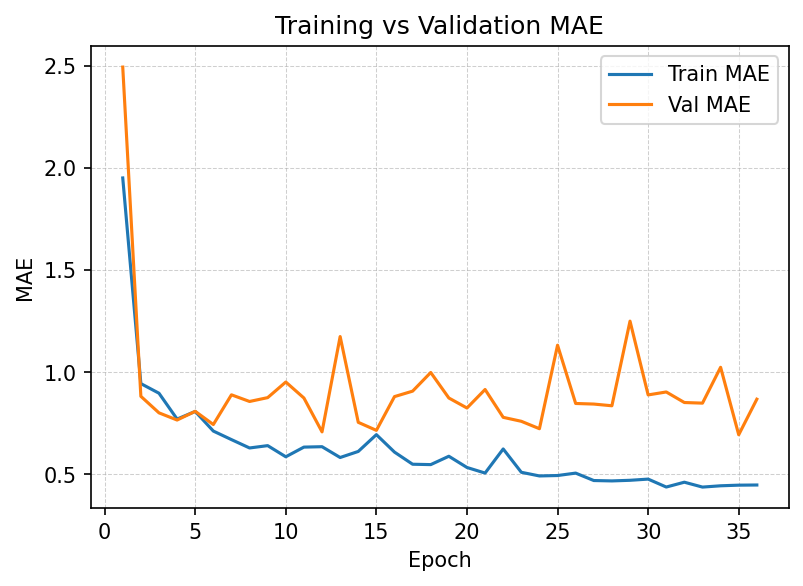
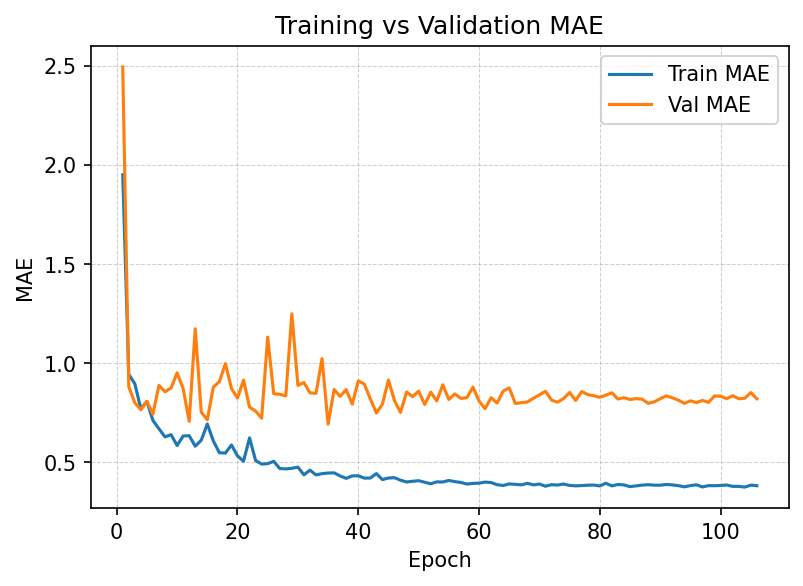
added EMA and keyboard intrupts

diff --git a/models/model_v8/train.py b/models/model_v8/train.py
@@ -1,3 +1,4 @@
+import copy
 import os
 import random
 import shutil
@@ -50,6 +51,7 @@ class TrainConfig:
     out_dir: str = '.'
     blacklist_ids: Tuple[int, ...] = (163,)
     best_mae_window: int = 5
+    ema_decay: float = 0.995
 
 
 def seed_everything(seed: int = 42, deterministic: bool = True):
@@ -68,6 +70,23 @@ def seed_worker(worker_id: int):
     worker_seed = torch.initial_seed() % 2**32
     np.random.seed(worker_seed)
     random.seed(worker_seed)
+
+
+def update_ema_model(ema_model: nn.Module, model: nn.Module, decay: float) -> None:
+    decay = float(decay)
+    if decay <= 0.0:
+        return
+    with torch.no_grad():
+        ema_params = dict(ema_model.named_parameters())
+        model_params = dict(model.named_parameters())
+        for name, param in model_params.items():
+            ema_param = ema_params.get(name)
+            if ema_param is None:
+                continue
+            ema_param.mul_(decay).add_(param, alpha=1.0 - decay)
+        # Keep buffers (e.g., BatchNorm stats) in sync
+        for ema_buf, buf in zip(ema_model.buffers(), model.buffers()):
+            ema_buf.copy_(buf)
 
 
 class TensorDictDataset(Dataset):
@@ -124,7 +143,7 @@ def _build_full_dataset(cfg: TrainConfig) -> PlantDatasetV8:
         cfg.rgb_dir,
         cfg.depth_dir,
         cfg.train_csv,
-        augment=True,
+        augment=False,
         seed=cfg.seed,
         enable_cache=True,
         num_views=1,
@@ -334,83 +353,104 @@ def train_fusion_regressor(
     train_history: List[float] = []
     val_history: List[float] = []
     mae_window = max(1, int(cfg.best_mae_window))
+    use_ema = cfg.ema_decay is not None and float(cfg.ema_decay) > 0.0
+    ema_model = None
+    if use_ema:
+        ema_model = copy.deepcopy(model).to(device)
+        for param in ema_model.parameters():
+            param.requires_grad_(False)
+    best_saved = False
+    interrupted = False
+    try:
+        for epoch in range(cfg.num_epochs):
+            model.train()
+            train_mae_sum, n_train = 0.0, 0
+            train_sup_loss_sum = 0.0
 
-    for epoch in range(cfg.num_epochs):
-        model.train()
-        train_mae_sum, n_train = 0.0, 0
-        train_sup_loss_sum = 0.0
-
-        for batch in train_loader:
-            rgb = batch['rgb'].to(device, non_blocking=True)
-            rgbd = batch['rgbd'].to(device, non_blocking=True)
-            y = batch['dry_weight'].to(device, non_blocking=True)
-
-            optimizer.zero_grad(set_to_none=True)
-            rgb_pred, rgbd_pred, fusion_pred = model(rgb, rgbd)
-            loss_rgb = criterion(rgb_pred, y)
-            loss_rgbd = criterion(rgbd_pred, y)
-            loss_fusion = criterion(fusion_pred, y)
-            loss = (
-                RGB_LOSS_WEIGHT * loss_rgb
-                + RGBD_LOSS_WEIGHT * loss_rgbd
-                + FUSION_LOSS_WEIGHT * loss_fusion
-            )
-            loss.backward()
-            optimizer.step()
-
-            bs = y.size(0)
-            train_sup_loss_sum += loss.item() * bs
-            train_mae_sum += loss_fusion.item() * bs
-            n_train += bs
-
-        model.eval()
-        val_mae_sum, n_val = 0.0, 0
-        val_sup_loss_sum = 0.0
-        with torch.no_grad():
-            for batch in val_loader:
+            for batch in train_loader:
                 rgb = batch['rgb'].to(device, non_blocking=True)
                 rgbd = batch['rgbd'].to(device, non_blocking=True)
                 y = batch['dry_weight'].to(device, non_blocking=True)
 
+                optimizer.zero_grad(set_to_none=True)
                 rgb_pred, rgbd_pred, fusion_pred = model(rgb, rgbd)
                 loss_rgb = criterion(rgb_pred, y)
                 loss_rgbd = criterion(rgbd_pred, y)
                 loss_fusion = criterion(fusion_pred, y)
-                val_loss = (
+                loss = (
                     RGB_LOSS_WEIGHT * loss_rgb
                     + RGBD_LOSS_WEIGHT * loss_rgbd
                     + FUSION_LOSS_WEIGHT * loss_fusion
                 )
+                loss.backward()
+                optimizer.step()
+                if use_ema and ema_model is not None:
+                    update_ema_model(ema_model, model, cfg.ema_decay)
+
                 bs = y.size(0)
-                val_sup_loss_sum += val_loss.item() * bs
-                val_mae_sum += loss_fusion.item() * bs
-                n_val += bs
+                train_sup_loss_sum += loss.item() * bs
+                train_mae_sum += loss_fusion.item() * bs
+                n_train += bs
 
-        train_mae = train_mae_sum / max(1, n_train)
-        val_mae = val_mae_sum / max(1, n_val)
-        train_sup_loss = train_sup_loss_sum / max(1, n_train)
-        val_sup_loss = val_sup_loss_sum / max(1, n_val)
-        train_history.append(train_mae)
-        val_history.append(val_mae)
-        smooth_span = min(mae_window, len(val_history))
-        smooth_val_mae = float(np.mean(val_history[-smooth_span:]))
-        current_lr = optimizer.param_groups[0]['lr']
-        prefix = f"[train][{fold_label}]" if fold_label else '[train]'
-        print(
-            f"{prefix} epoch {epoch+1}/{cfg.num_epochs} lr={current_lr:.3e} "
-            f"train_mae={train_mae:.4f} val_mae={val_mae:.4f} "
-            f"smoothed_val_mae({smooth_span})={smooth_val_mae:.4f} "
-            f"train_loss={train_sup_loss:.4f} val_loss={val_sup_loss:.4f}"
-        )
+            model.eval()
+            val_mae_sum, n_val = 0.0, 0
+            val_sup_loss_sum = 0.0
+            with torch.no_grad():
+                for batch in val_loader:
+                    rgb = batch['rgb'].to(device, non_blocking=True)
+                    rgbd = batch['rgbd'].to(device, non_blocking=True)
+                    y = batch['dry_weight'].to(device, non_blocking=True)
 
-        if smooth_val_mae <= stopper.best:
-            save_checkpoint(best_path, model)
-        if stopper.step(smooth_val_mae):
-            print(f"[train] early stop at epoch {epoch+1} (best val_mae={stopper.best:.4f})")
-            break
+                    rgb_pred, rgbd_pred, fusion_pred = model(rgb, rgbd)
+                    loss_rgb = criterion(rgb_pred, y)
+                    loss_rgbd = criterion(rgbd_pred, y)
+                    loss_fusion = criterion(fusion_pred, y)
+                    val_loss = (
+                        RGB_LOSS_WEIGHT * loss_rgb
+                        + RGBD_LOSS_WEIGHT * loss_rgbd
+                        + FUSION_LOSS_WEIGHT * loss_fusion
+                    )
+                    bs = y.size(0)
+                    val_sup_loss_sum += val_loss.item() * bs
+                    val_mae_sum += loss_fusion.item() * bs
+                    n_val += bs
 
-        scheduler.step(val_mae)
+            train_mae = train_mae_sum / max(1, n_train)
+            val_mae = val_mae_sum / max(1, n_val)
+            train_sup_loss = train_sup_loss_sum / max(1, n_train)
+            val_sup_loss = val_sup_loss_sum / max(1, n_val)
+            train_history.append(train_mae)
+            val_history.append(val_mae)
+            smooth_span = min(mae_window, len(val_history))
+            smooth_val_mae = float(np.mean(val_history[-smooth_span:]))
+            current_lr = optimizer.param_groups[0]['lr']
+            prefix = f"[train][{fold_label}]" if fold_label else '[train]'
+            print(
+                f"{prefix} epoch {epoch+1}/{cfg.num_epochs} lr={current_lr:.3e} "
+                f"train_mae={train_mae:.4f} val_mae={val_mae:.4f} "
+                f"smoothed_val_mae({smooth_span})={smooth_val_mae:.4f} "
+                f"train_loss={train_sup_loss:.4f} val_loss={val_sup_loss:.4f}"
+            )
 
+            if smooth_val_mae <= stopper.best:
+                target = ema_model if use_ema and ema_model is not None else model
+                save_checkpoint(best_path, target)
+                best_saved = True
+            if stopper.step(smooth_val_mae):
+                print(f"[train] early stop at epoch {epoch+1} (best val_mae={stopper.best:.4f})")
+                break
+
+            scheduler.step(val_mae)
+    except KeyboardInterrupt:
+        interrupted = True
+        print('\n[train] KeyboardInterrupt received; saving current progress...')
+
+    target = ema_model if use_ema and ema_model is not None else model
+    if not best_saved or not os.path.exists(best_path):
+        save_checkpoint(best_path, target)
+        best_saved = True
+    if interrupted:
+        print(f"[train] interrupted — best checkpoint saved to {best_path}")
     return best_path, train_history, val_history, stopper.best
 
 
